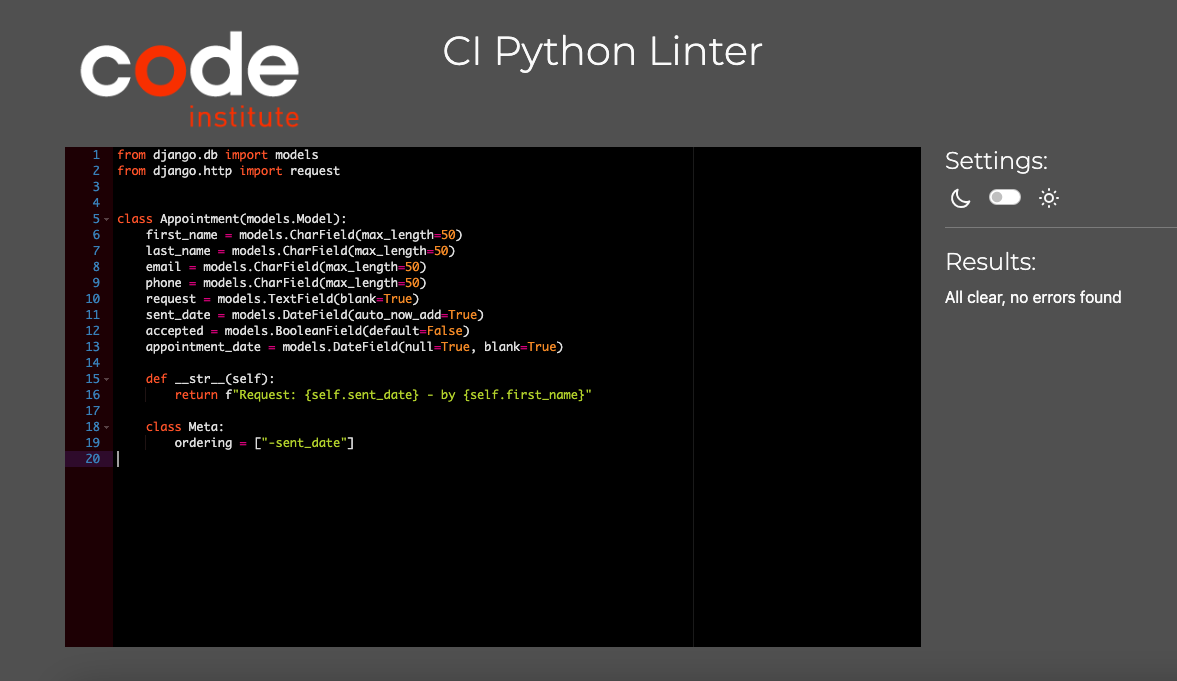
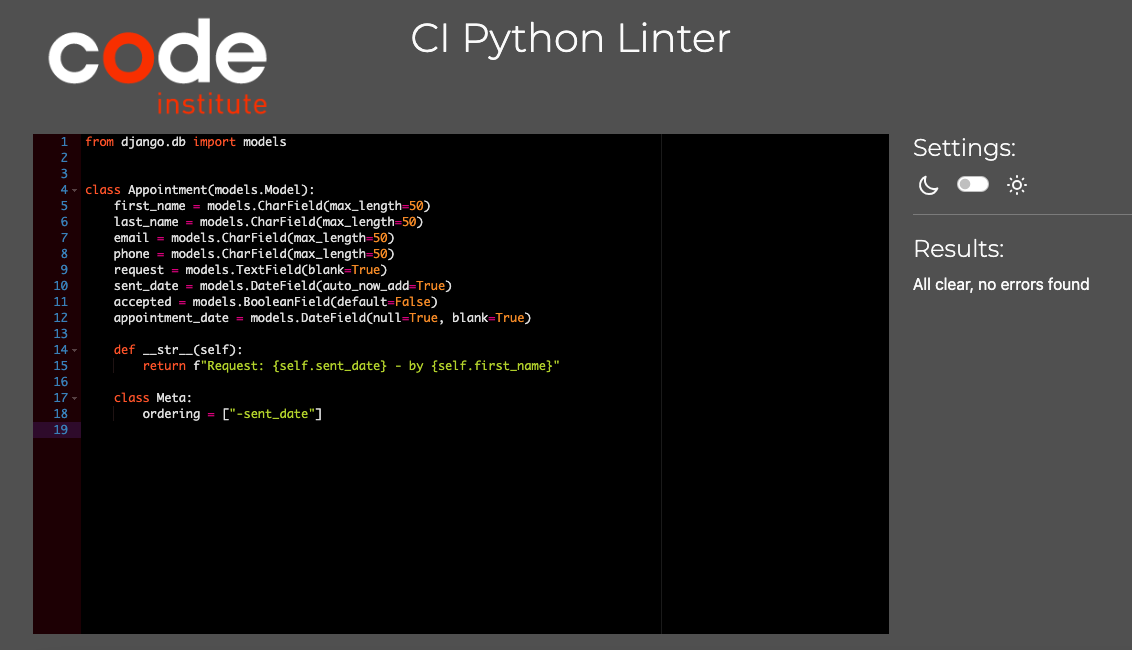
edit testing images and code for appoitnment app

diff --git a/appointment/templates/appointment/appointment.html b/appointment/templates/appointment/appointment.html
@@ -57,7 +57,7 @@
                         <div class="form-group col-12 flex-column d-flex">
                             <label class="form-control-label px-3">Your request<span class="text-danger">
                                     *</span></label>
-                            <textarea id="request" name="request" class="request-appoint border border-secondary" placeholder="Type your request here" minlength="5"
+                            <textarea id="request" name="message" class="request-appoint border border-secondary" placeholder="Type your request here" minlength="5"
                                 maxlength="255" required></textarea>
                         </div>
                     </div>

diff --git a/appointment/views.py b/appointment/views.py
@@ -1,18 +1,15 @@
 from django.http.response import HttpResponseRedirect
-from django.shortcuts import render
-from django.http import HttpResponse
 from django.views.generic.base import TemplateView
 from django.views.generic.edit import DeleteView
-from django.urls import reverse, reverse_lazy
-from django.core.mail import EmailMessage, message
+from django.urls import reverse_lazy
+from django.core.mail import EmailMessage
 from django.conf import settings
 from django.contrib import messages
 from .models import Appointment
 from django.views.generic import ListView
-import datetime
-from django.template import Context
-from django.template.loader import render_to_string, get_template
+from django.template.loader import get_template
 from django.contrib.messages.views import SuccessMessageMixin
+
 
 class AppointmentView(TemplateView):
     template_name = "appointment/appointment.html"
@@ -22,7 +19,7 @@ class AppointmentView(TemplateView):
         lname = request.POST.get("lname")
         email = request.POST.get("email")
         phone = request.POST.get("phone")
-        message = request.POST.get("request")
+        message = request.POST.get("message")
 
         appointment = Appointment.objects.create(
             first_name=fname,

diff --git a/appointment/urls.py b/appointment/urls.py
@@ -1,11 +1,11 @@
 from django.urls import path
 from .views import AppointmentView, ManageAppointmentView, DeleteAppointment
-from . import views
+
 
 urlpatterns = [
     path("", AppointmentView.as_view(), name="appointment"),
     path("manage-appointments/",
          ManageAppointmentView.as_view(), name="manage"),
-    path("<int:pk>/delete_appointment", views.DeleteAppointment.as_view(),
+    path("<int:pk>/delete_appointment", DeleteAppointment.as_view(),
          name='delete_appointment')
 ]

diff --git a/faq/models.py b/faq/models.py
@@ -10,19 +10,8 @@ class LawFaq(models.Model):
     answer = models.TextField(max_length=1500)
 
     class Meta:
-       verbose_name_plural = 'FAQS'
-       ordering = ['faq_item']
+        verbose_name_plural = 'FAQS'
+        ordering = ['faq_item']
 
     def __str__(self):
         return self.title
-
-
-
-    
-
-        
-    
-
-
-
-

diff --git a/faq/views.py b/faq/views.py
@@ -1,6 +1,7 @@
 from django.shortcuts import render
 from .models import LawFaq
 
+
 # Create your views here.
 
 def faqView(request):

diff --git a/appointment/models.py b/appointment/models.py
@@ -1,5 +1,4 @@
 from django.db import models
-from django.http import request
 
 
 class Appointment(models.Model):
